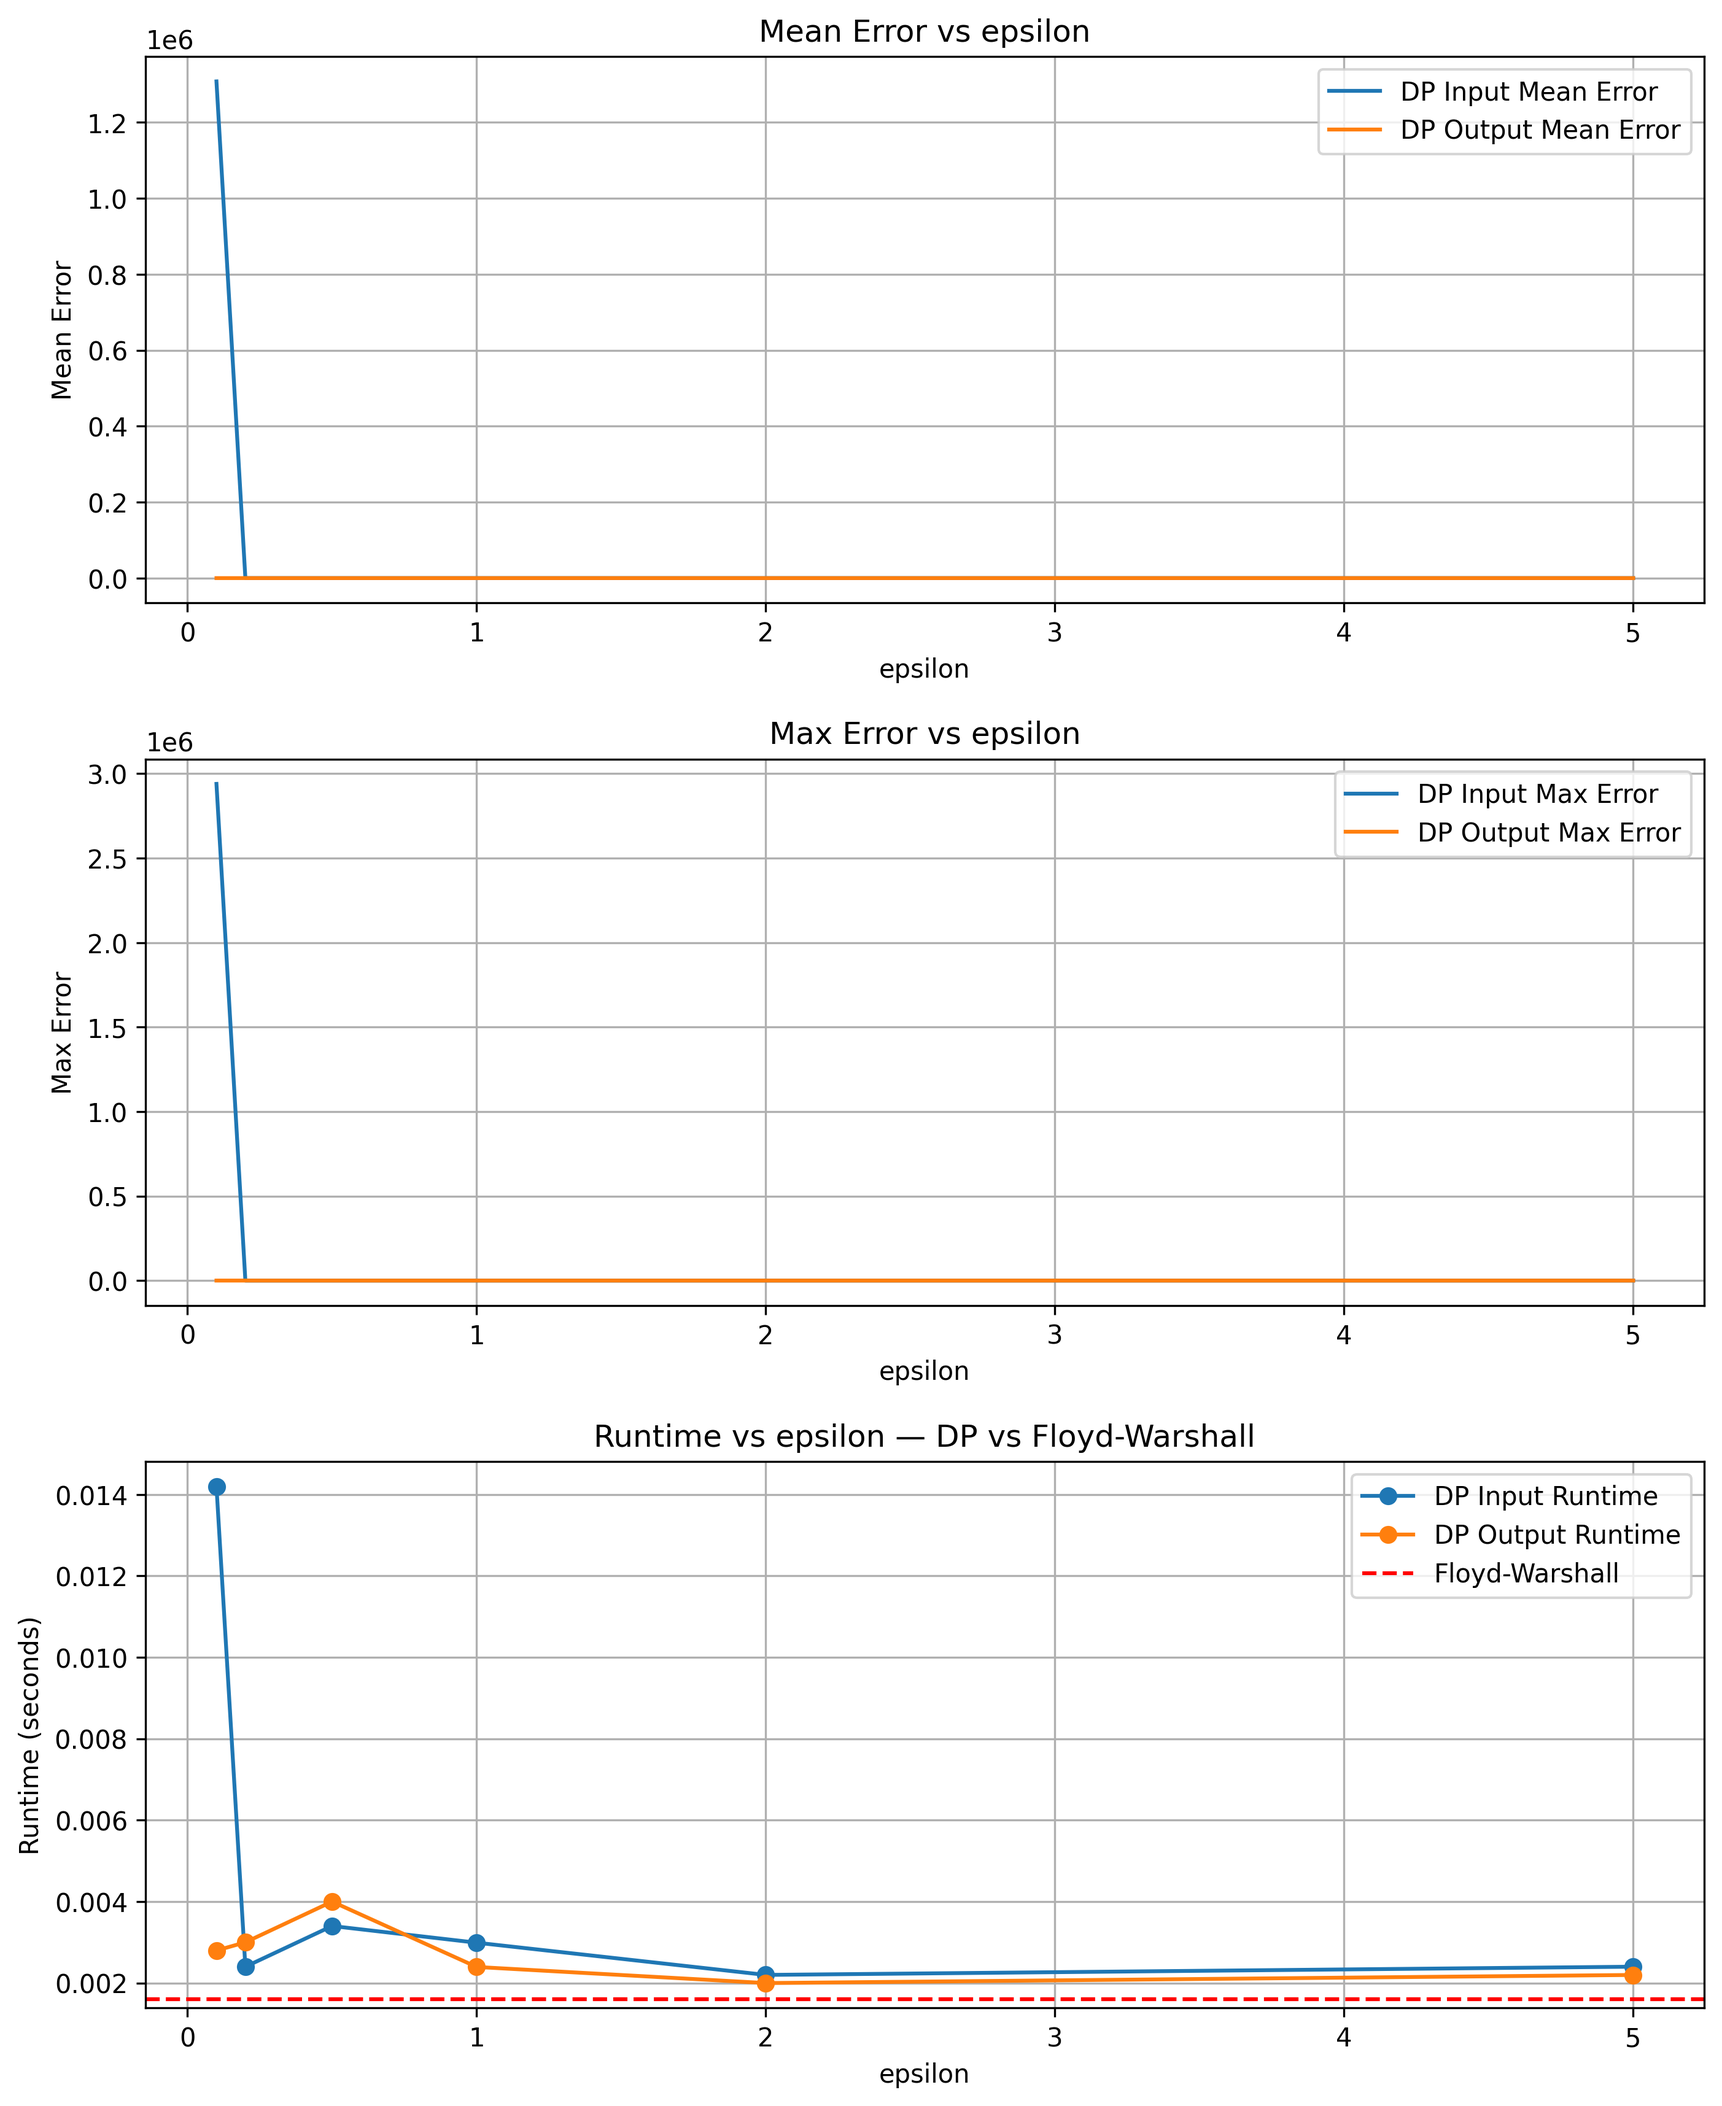
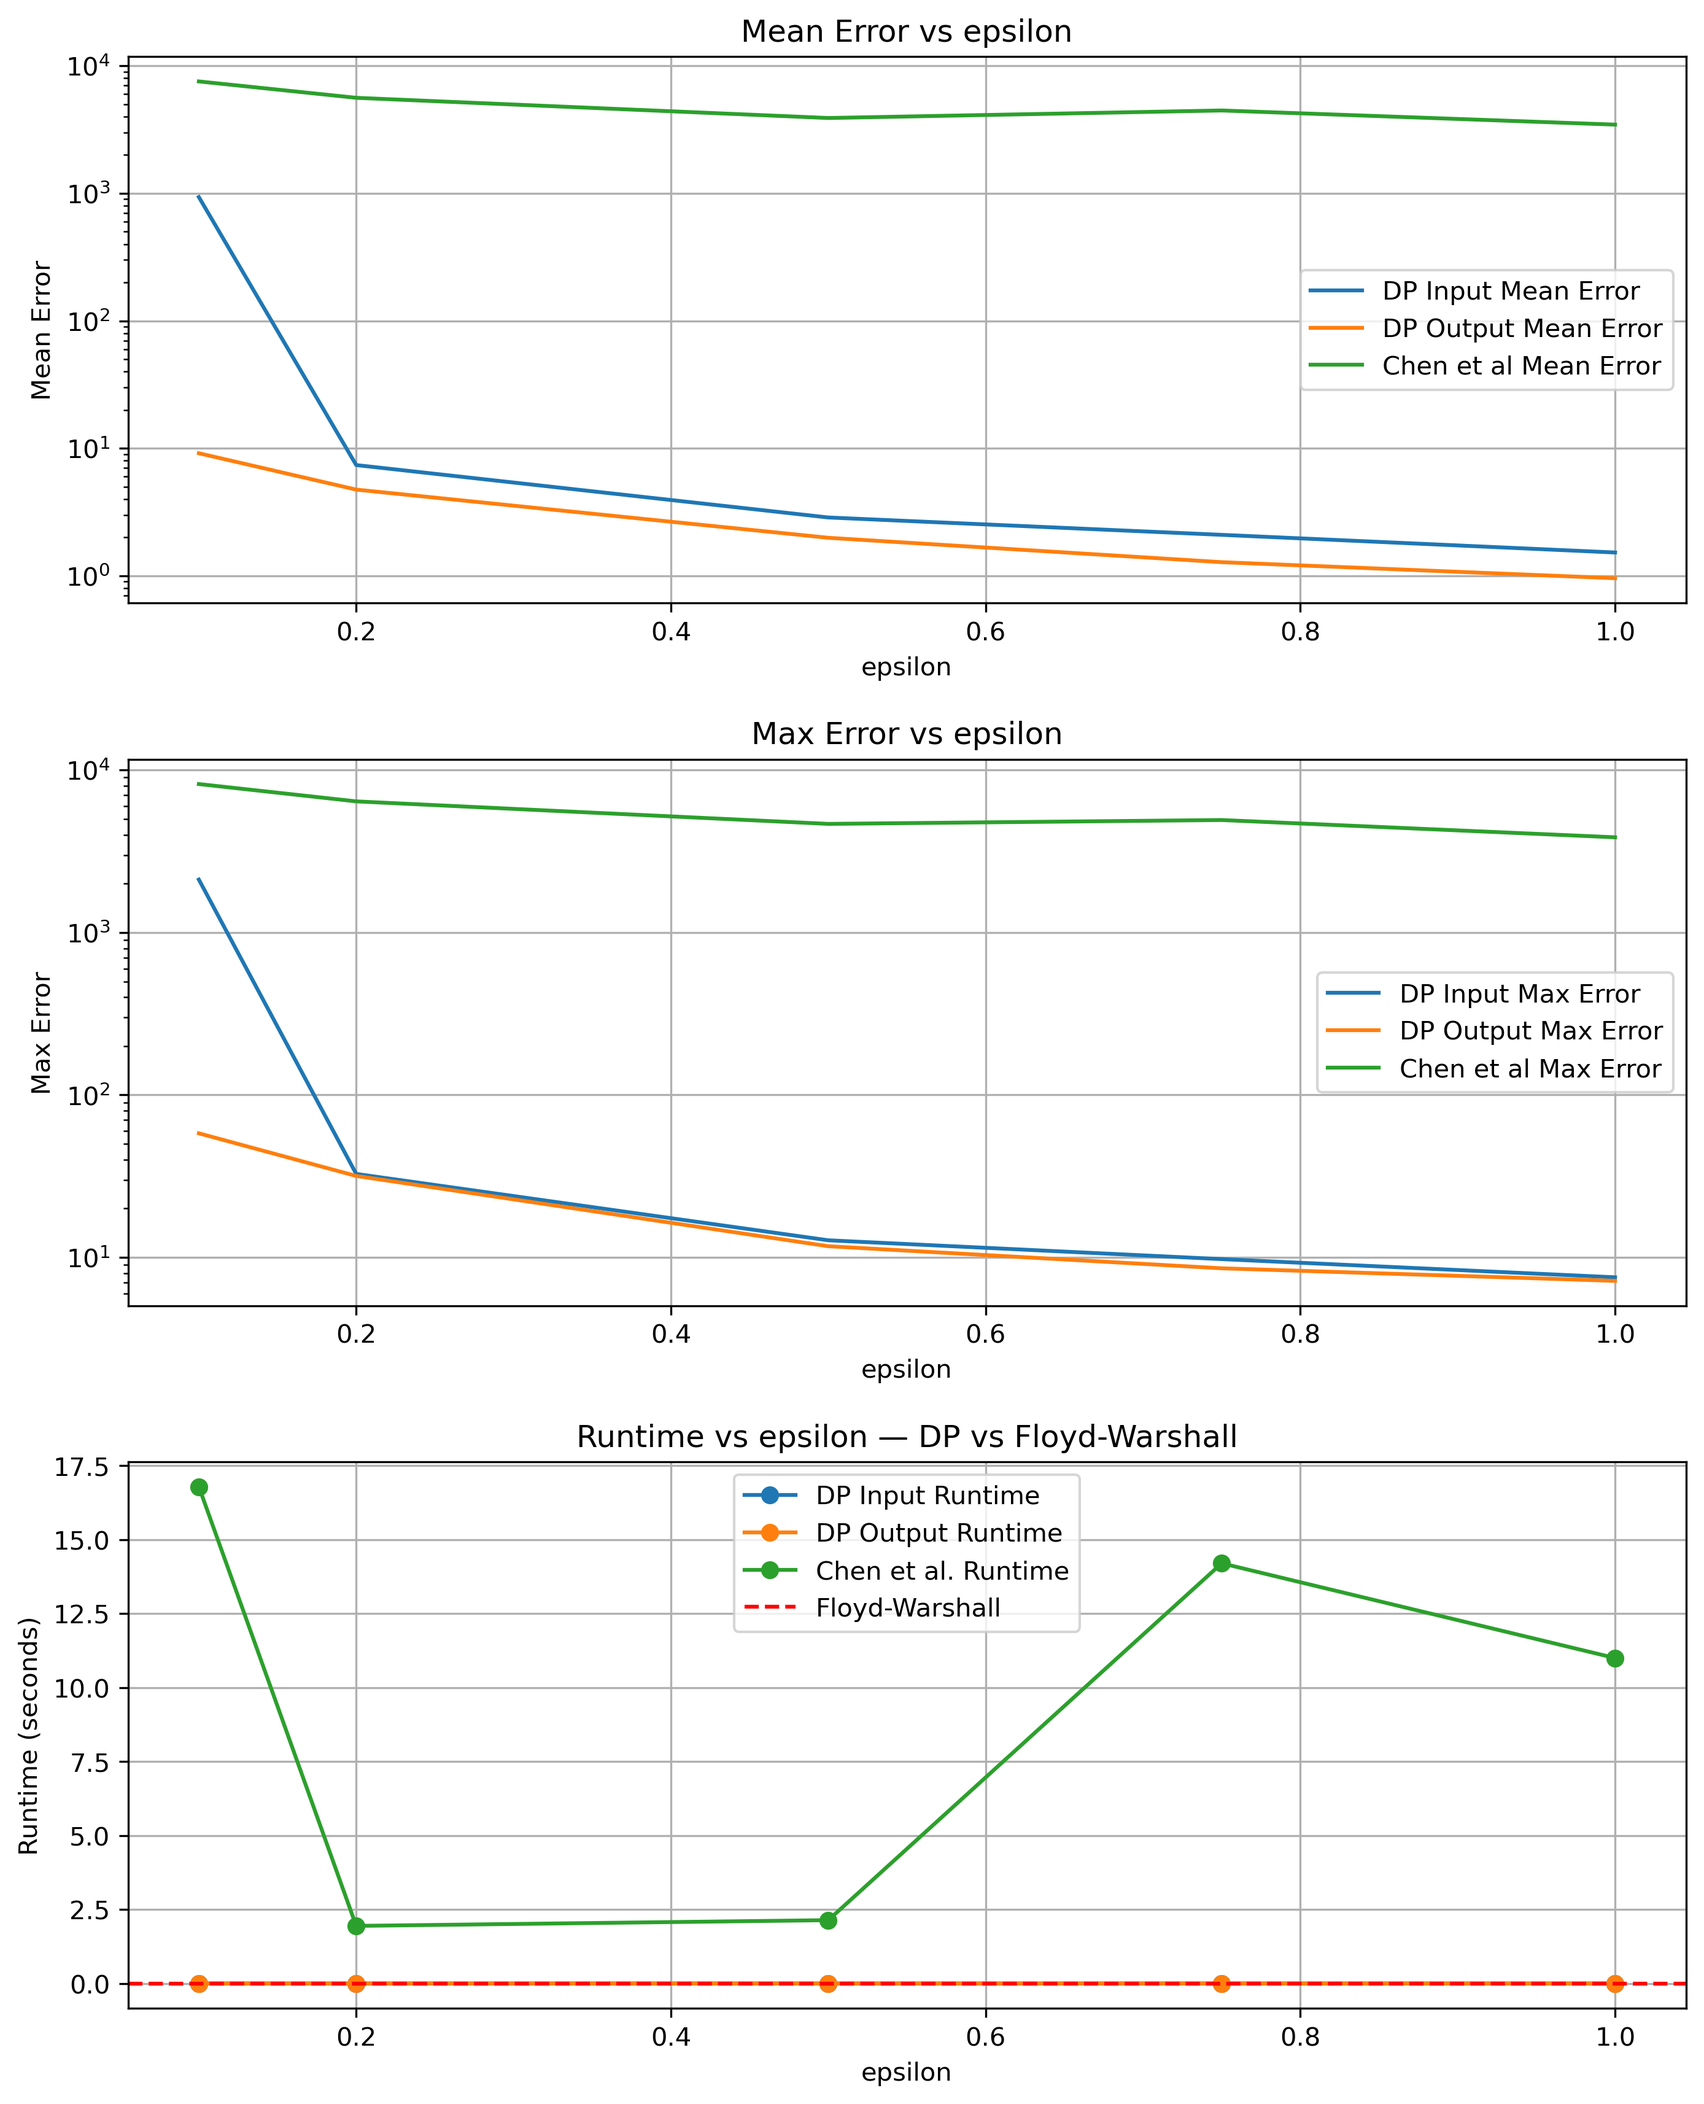
run analysis

diff --git a/analysis.py b/analysis.py
@@ -10,6 +10,7 @@ from chen import bounded_weights
 import time
 import numpy as np
 import matplotlib.pyplot as plt
+import os
     
     
 def compute_accuracy(true_distances, calculated_distances):
@@ -150,6 +151,7 @@ def plot_results(epsilon_values, results, filename="results.png"):
     ax.plot(epsilon_values, results["dp_in_mean"], label="DP Input Mean Error")
     ax.plot(epsilon_values, results["dp_out_mean"], label="DP Output Mean Error")
     ax.plot(epsilon_values, results["chen_mean"], label="Chen et al Mean Error")
+    ax.set_yscale('log')
     ax.set_xlabel("epsilon")
     ax.set_ylabel("Mean Error")
     ax.set_title("Mean Error vs epsilon")
@@ -161,6 +163,7 @@ def plot_results(epsilon_values, results, filename="results.png"):
     ax.plot(epsilon_values, results["dp_in_max"], label="DP Input Max Error")
     ax.plot(epsilon_values, results["dp_out_max"], label="DP Output Max Error")
     ax.plot(epsilon_values, results["chen_max"], label="Chen et al Max Error")
+    ax.set_yscale('log')
     ax.set_xlabel("epsilon")
     ax.set_ylabel("Max Error")
     ax.set_title("Max Error vs epsilon")
@@ -190,14 +193,164 @@ def plot_results(epsilon_values, results, filename="results.png"):
     # Show
     plt.show()
 
+# Helper to plot mean error, max error, and runtime for a dictionary of results
+def plot_three_metrics(x_values, all_results, x_label, filename_prefix):
+    # Convert dict-of-results into lists sorted by the x-values
+    xs = sorted(x_values)
+
+    dp_in_mean = [all_results[x]["dp_in_mean"][0] for x in xs]
+    dp_out_mean = [all_results[x]["dp_out_mean"][0] for x in xs]
+    chen_mean   = [all_results[x]["chen_mean"][0]   for x in xs]
+
+    dp_in_max = [all_results[x]["dp_in_max"][0] for x in xs]
+    dp_out_max = [all_results[x]["dp_out_max"][0] for x in xs]
+    chen_max   = [all_results[x]["chen_max"][0]   for x in xs]
+
+    dp_in_rt = [all_results[x]["dp_in_runtime"][0] for x in xs]
+    dp_out_rt = [all_results[x]["dp_out_runtime"][0] for x in xs]
+    chen_rt   = [all_results[x]["chen_runtime"][0]   for x in xs]
+    fw_rt     = [all_results[x]["floyd_runtime"]     for x in xs]
+
+    # --------------------------
+    # Mean Error
+    # --------------------------
+    plt.figure(figsize=(8,5))
+    plt.plot(xs, dp_in_mean, marker='o', label="DP Input Mean Error")
+    plt.plot(xs, dp_out_mean, marker='o', label="DP Output Mean Error")
+    plt.plot(xs, chen_mean, marker='o', label="Chen et al Mean Error")
+    plt.yscale('log')
+    plt.xlabel(x_label)
+    plt.ylabel("Mean Error")
+    plt.title(f"Mean Error vs {x_label}")
+    plt.grid(True)
+    plt.legend()
+    plt.savefig(f"{filename_prefix}_mean_error.png", dpi=300, bbox_inches="tight")
+    plt.show()
+
+    # --------------------------
+    # Max Error
+    # --------------------------
+    plt.figure(figsize=(8,5))
+    plt.plot(xs, dp_in_max, marker='o', label="DP Input Max Error")
+    plt.plot(xs, dp_out_max, marker='o', label="DP Output Max Error")
+    plt.plot(xs, chen_max, marker='o', label="Chen et al Max Error")
+    plt.yscale('log')
+    plt.xlabel(x_label)
+    plt.ylabel("Max Error")
+    plt.title(f"Max Error vs {x_label}")
+    plt.grid(True)
+    plt.legend()
+    plt.savefig(f"{filename_prefix}_max_error.png", dpi=300, bbox_inches="tight")
+    plt.show()
+
+    # --------------------------
+    # Runtime
+    # --------------------------
+    plt.figure(figsize=(8,5))
+    plt.plot(xs, dp_in_rt, marker='o', label="DP Input Runtime")
+    plt.plot(xs, dp_out_rt, marker='o', label="DP Output Runtime")
+    plt.plot(xs, chen_rt, marker='o', label="Chen et al Runtime")
+    plt.plot(xs, fw_rt, marker='o', label="Floyd-Warshall Runtime", linestyle='--')
+    plt.xlabel(x_label)
+    plt.ylabel("Runtime (seconds)")
+    plt.title(f"Algorithm Runtime vs {x_label}")
+    plt.grid(True)
+    plt.legend()
+    plt.savefig(f"{filename_prefix}_runtime.png", dpi=300, bbox_inches="tight")
+    plt.show()
+
+
+def run_vary_vertices():
+    print("Run varying number of vertices")
+
+    test_files = [
+        "graph_10_200_0.2.txt",
+        "graph_15_200_0.2.txt",
+        "graph_20_200_0.2.txt",
+        "graph_25_200_0.2.txt",
+        "graph_30_200_0.2.txt",
+    ]
+
+    epsilon_values = [0.2]
+    max_weight = 200
+
+    all_results = {}
+
+    for fname in test_files:
+        path = os.path.join("./data", fname)
+        graph = read_graph_from_file(path)
+        n = len(graph)
+        vertices = set(range(n))
+
+        print(f"\n--- Running experiment for {fname} (n={n}) ---")
+        results = run_experiment(graph, epsilon_values, vertices=vertices,
+                                 max_weight=max_weight, num_runs=3)
+        all_results[n] = results
+
+    # Plot mean/max error & runtime
+    plot_three_metrics(
+        x_values=list(all_results.keys()),
+        all_results=all_results,
+        x_label="Number of Vertices",
+        filename_prefix="results_num_vertices_comparison"
+    )
+
+
+# -----------------------------------
+# TEST 2: Vary max weight (A parameter)
+# -----------------------------------
+
+def run_vary_max_weight():
+    print("Run varying max weight")
+
+    test_files = [
+        "graph_25_100_0.6.txt",
+        "graph_25_500_0.6.txt",
+        "graph_25_1000_0.6.txt",
+        "graph_25_2000_0.6.txt",
+        "graph_25_3000_0.6.txt",
+    ]
+
+    epsilon_values = [0.1]
+
+    all_results = {}
+    max_weights = []
+
+    for fname in test_files:
+        path = os.path.join("./data", fname)
+
+        parts = fname.split("_")
+        maxW = int(parts[2])
+        max_weights.append(maxW)
+
+        graph = read_graph_from_file(path)
+        vertices = set(range(len(graph)))
+
+        print(f"\n--- Running experiment for {fname} (maxW={maxW}) ---")
+        results = run_experiment(graph, epsilon_values, vertices=vertices,
+                                 max_weight=maxW, num_runs=3)
+        all_results[maxW] = results
+
+    # Plot results
+    plot_three_metrics(
+        x_values=max_weights,
+        all_results=all_results,
+        x_label="Max Weight",
+        filename_prefix="results_max_weight_comparison"
+    )
+
 
 if __name__ == "__main__":
-    file = "./data/graph_16_200_0.9.txt"
-    graph = read_graph_from_file(file)
-    epsilon_values = [0.1, 0.2, 0.5, 1, 2, 5]
-    n = len(graph)
-    vertices = set(range(n))
-    max_weight = 200 
-    results = run_experiment(graph, epsilon_values, vertices=vertices, max_weight=max_weight, num_runs=5)
+    # file = "./data/graph_16_200_0.9.txt"
+    # graph = read_graph_from_file(file)
+    # epsilon_values = [0.1, 0.2, 0.5, 0.75, 1]
+    # n = len(graph)
+    # vertices = set(range(n))
+    # max_weight = 200 
+    # results = run_experiment(graph, epsilon_values, vertices=vertices, max_weight=max_weight, num_runs=5)
 
-    plot_results(epsilon_values, results)
+    # filename = f"results.png"
+    # plot_results(epsilon_values, results)
+    
+    run_vary_vertices()
+    run_vary_max_weight()

diff --git a/dp_floyd_warshall.py b/dp_floyd_warshall.py
@@ -6,6 +6,7 @@ This file contains the implementation of a simple Differentially Private Floyd-W
 """
 
 import numpy as np
+import math
 
 INF = float("inf")
 
@@ -26,11 +27,13 @@ def dp_floyd_warshall_input_perturbation(graph, eps = 1.0):
     # Initialize distances and paths with copy
     distances = [row[:] for row in graph]
     
+    # sensitivity = 3 * (math.log(num_vertices, 10))        # sensitivity comparable to Chen et al. (3K)
+    sensitivity = 1
     # Add noise to each existing edge (not INF), excluding self-loops
     for i in range(num_vertices):
         for j in range(num_vertices):
             if i != j and distances[i][j] != INF:
-                noise = np.random.laplace(0, 1/eps)
+                noise = np.random.laplace(0, sensitivity/eps)
                 distances[i][j] += noise
     
     # Floyd-Warshall algorithm
@@ -62,6 +65,8 @@ def dp_floyd_warshall_output_perturbation(graph, eps = 1.0):
     
     distances = [row[:] for row in graph]
     
+    # sensitivity = 3 * (math.log(num_vertices, 10))        # sensitivity comparable to Chen et al. (3K)
+    sensitivity = 1
     # Floyd-Warshall
     for k in range(num_vertices):
         for i in range(num_vertices):
@@ -76,7 +81,7 @@ def dp_floyd_warshall_output_perturbation(graph, eps = 1.0):
     for i in range(num_vertices):
         for j in range(num_vertices):
             if i != j and distances[i][j] != INF:
-                noise = np.random.laplace(0, 1/eps)
+                noise = np.random.laplace(0, sensitivity/eps)
                 distances[i][j] += noise
     
     return distances

diff --git a/chen.py b/chen.py
@@ -251,7 +251,7 @@ def bounded_weights(G, V, A, epsilon):
         return [[INF for _ in range(n)] for _ in range(n)]
 
     # K = math.floor(100 * math.log(V_len, 10))
-    K = math.floor(2 * math.log(V_len, 10))
+    K = math.floor(1 * math.log(V_len, 10))
     T = V_len / ((A * epsilon * V_len) ** ((math.sqrt(17) - 3)/4))
     R = V_len / ((A * epsilon * V_len) ** ((5 - math.sqrt(17))/2))
     # L = math.floor(100 * math.log(n, 10) * ((A * epsilon * V_len) ** ((math.sqrt(17) - 3)/4)))
@@ -267,7 +267,7 @@ def bounded_weights(G, V, A, epsilon):
 
         balls = []
         for v_t in V:    # for each vertex in H_prime
-            ball_radius = len(ball(H_prime, v_t, 100*R* math.log(V_len, 10)))
+            ball_radius = len(ball(H_prime, v_t, 1*R* math.log(V_len, 10)))
 
             # if ball_radius == V_len:                                          
             #     continue
@@ -305,7 +305,7 @@ def bounded_weights(G, V, A, epsilon):
             matrices = []       # len(matrices) = K
             for l in range(1, K + 1):
                 subgr = subgraph(G, B_t)
-                M_t_l = bounded_weights(subgr, B_t, A, epsilon / (3*((100 * math.log(V_len, 10))**2)))
+                M_t_l = bounded_weights(subgr, B_t, A, epsilon / (3*((1 * math.log(V_len, 10))**2)))
                 # print("M_t_l:", M_t_l)
                 matrices.append(M_t_l)
 
